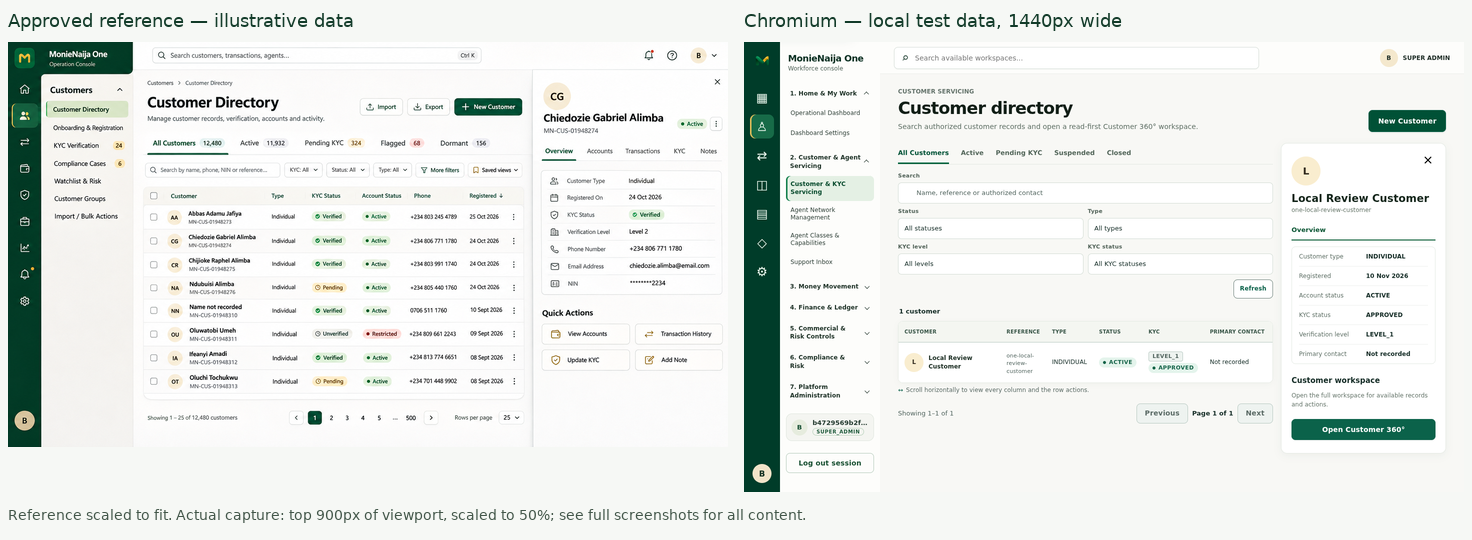
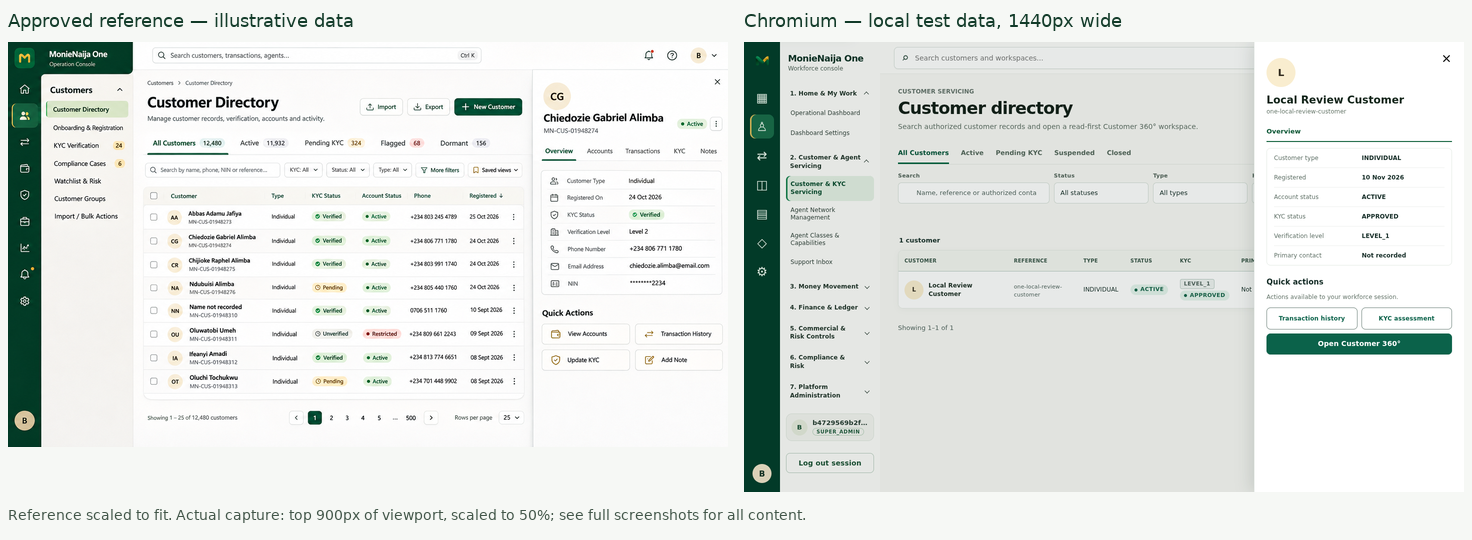
Update approved-reference comparison captures

Changed region(s): [[0.5938, 0.0889, 1.0, 0.9185], [0.625, 0.0889, 0.7188, 0.1185], [0.9375, 0.0889, 1.0, 0.1185]]

diff --git a/docs/admin-one/visual-comparison.html b/docs/admin-one/visual-comparison.html
@@ -3,10 +3,10 @@
 body{font:15px/1.55 system-ui,sans-serif;color:#192b20;margin:0;background:#f6f8f5}main{max-width:1500px;margin:auto;padding:28px}h1,h2{color:#063d2a}section{margin:32px 0}p{max-width:95ch}a{color:#005e3d}.comparison{display:grid;grid-template-columns:1fr 1fr;gap:16px}.panel{min-width:0;background:white;border:1px solid #d9e4db;border-radius:8px;padding:12px}.panel h3{margin:0 0 10px;font-size:14px}.frame{height:460px;overflow:auto;border:1px solid #e5e8e4}.frame img{display:block;width:100%;height:auto}.mobile img{width:375px;max-width:100%;height:auto}.mobile{height:520px}.note{padding:15px;background:#fff9e9;border-left:4px solid #bb9131} @media(max-width:700px){.comparison{grid-template-columns:1fr}}
 </style></head><body><main>
 <h1>MonieNaija One: Phase 1 visual comparison</h1>
-<p>Left: approved illustrative desktop reference. Right: actual headless Chromium capture of the implementation at 1440px, using a disposable local database. Images keep their aspect ratio; scroll inside a frame to inspect a full-page capture. Mobile captures use a 375px width; the full directory and preview images use an expanded-height viewport to ensure Chromium paints their scrollable table, while separate 375 × 900 viewport captures show the actual scrolled table. The supplied package contains no mobile references.</p>
+<p>Left: approved illustrative desktop reference. Right: actual headless Chromium capture of the implementation at 1440px, using a disposable local database. Images keep their aspect ratio; scroll inside a frame to inspect a full-page capture. Mobile captures use a 375px width; the full directory image uses an expanded-height viewport to ensure Chromium paints its scrollable table, while separate 375 × 900 viewport captures show the actual scrolled table. The supplied package contains no mobile references.</p>
 <p class="note"><strong>Review status:</strong> The references are the target, not evidence of functionality. The local data shown is synthetic, not production. Screens differ materially in some areas, as listed below. Owner approval is still required.</p>
-<section><h2>1. Sign-in</h2><div class="comparison"><div class="panel"><h3>Approved reference</h3><div class="frame"><img src="reference/01-login.png" alt="Approved sign-in reference"></div></div><div class="panel"><h3>Implementation — Chromium 1440px</h3><div class="frame"><img src="evidence/login-1440.png" alt="Actual local sign-in at 1440 pixels"></div></div></div><p>The two-panel composition, green/gold identity and form hierarchy follow the reference. The angled edge, map/wave art, password visibility, remember-me and password-reset controls are not reproduced; unsupported authentication functionality is not invented.</p><div class="panel"><h3>Implementation — Chromium 375px</h3><div class="frame mobile"><img src="evidence/login-375.png" alt="Actual local sign-in at 375 pixels"></div></div></section>
-<section><h2>2. Operations dashboard</h2><div class="comparison"><div class="panel"><h3>Approved reference</h3><div class="frame"><img src="reference/02-dashboard.png" alt="Approved operations dashboard reference"></div></div><div class="panel"><h3>Implementation — Chromium 1440px</h3><div class="frame"><img src="evidence/dashboard-1440.png" alt="Actual local operations dashboard at 1440 pixels"></div></div></div><p>The rail, secondary navigation, search, cards and transaction trend are structurally similar, but the widget arrangement and density differ. Search finds permitted workspaces, not customers/transactions. KPIs are real transaction summary metrics rather than the reference's illustrative customer/agent counts. There is no mock health score or combined action queue; available authorized reconciliation and audit widgets are shown instead. The empty chart reflects the disposable database.</p><div class="panel"><h3>Implementation — Chromium 375px</h3><div class="frame mobile"><img src="evidence/dashboard-375.png" alt="Actual local operations dashboard at 375 pixels"></div></div></section>
-<section><h2>3. Customer directory and preview</h2><div class="comparison"><div class="panel"><h3>Approved reference</h3><div class="frame"><img src="reference/03-customer-directory.png" alt="Approved customer directory reference"></div></div><div class="panel"><h3>Implementation — Chromium 1440px, preview open</h3><div class="frame"><img src="evidence/customer-preview-1440.png" alt="Actual local directory with customer preview at 1440 pixels"></div></div></div><p>The directory has real status filters, search, table, pagination and an overview preview. Filters wrap rather than fitting on one row; the preview uses returned directory fields and opens the existing Customer 360 workspace instead of presenting unverified quick actions or counts. No import/export, saved views, mock tabs, or bulk actions are presented as functional.</p><div class="comparison"><div class="panel"><h3>Implementation — Chromium 375px, directory</h3><div class="frame mobile"><img src="evidence/customers-375.png" alt="Actual local directory at 375 pixels"></div></div><div class="panel"><h3>Implementation — Chromium 375px, preview open</h3><div class="frame mobile"><img src="evidence/customer-preview-375.png" alt="Actual local directory preview at 375 pixels"></div></div></div><p>The mobile table now scrolls as a whole, so its first column no longer covers the row action. The complete mobile directory images use an expanded-height 375px viewport to avoid Chromium omitting the off-screen overflow region. <a href="evidence/customer-preview-table-375.png">Actual 375 × 900 viewport before horizontal scrolling</a> and <a href="evidence/customer-preview-table-scrolled-375.png">after scrolling to the action</a> are available for inspection.</p></section>
+<section><h2>1. Sign-in</h2><div class="comparison"><div class="panel"><h3>Approved reference</h3><div class="frame"><img src="reference/01-login.png" alt="Approved sign-in reference"></div></div><div class="panel"><h3>Implementation — Chromium 1440px</h3><div class="frame"><img src="evidence/login-1440.png" alt="Actual local sign-in at 1440 pixels"></div></div></div><p>The two-panel composition, green/gold identity and form hierarchy follow the reference. The angled edge, decorative map/waves and password reveal have been added. Remember-me and password reset remain unavailable pending supported authentication policy and backend flows.</p><div class="panel"><h3>Implementation — Chromium 375px</h3><div class="frame mobile"><img src="evidence/login-375.png" alt="Actual local sign-in at 375 pixels"></div></div></section>
+<section><h2>2. Operations dashboard</h2><div class="comparison"><div class="panel"><h3>Approved reference</h3><div class="frame"><img src="reference/02-dashboard.png" alt="Approved operations dashboard reference"></div></div><div class="panel"><h3>Implementation — Chromium 1440px</h3><div class="frame"><img src="evidence/dashboard-1440.png" alt="Actual local operations dashboard at 1440 pixels"></div></div></div><p>The rail, secondary navigation, search, cards and transaction trend are structurally similar, but the widget arrangement and density differ. Search finds authorized customers and permitted workspaces, but not agents, transactions or tickets. KPIs use authorized transaction, agent and customer endpoints rather than the illustrative reference values. The action panel uses available KYC and support data; combined action and flagged transaction counts need backend support. Available reconciliation and audit widgets replace the illustrative health score and activity. The empty chart reflects the disposable database.</p><div class="panel"><h3>Implementation — Chromium 375px</h3><div class="frame mobile"><img src="evidence/dashboard-375.png" alt="Actual local operations dashboard at 375 pixels"></div></div></section>
+<section><h2>3. Customer directory and preview</h2><div class="comparison"><div class="panel"><h3>Approved reference</h3><div class="frame"><img src="reference/03-customer-directory.png" alt="Approved customer directory reference"></div></div><div class="panel"><h3>Implementation — Chromium 1440px, preview open</h3><div class="frame"><img src="evidence/customer-preview-1440.png" alt="Actual local directory with customer preview at 1440 pixels"></div></div></div><p>The directory has real status filters, search, table, pagination and a modal overview drawer. Filters wrap rather than fitting on one row; the drawer uses returned directory fields and offers authorized customer-context actions plus the existing Customer 360 workspace. No import/export, saved views, mock tabs, or bulk actions are presented as functional.</p><div class="comparison"><div class="panel"><h3>Implementation — Chromium 375px, directory</h3><div class="frame mobile"><img src="evidence/customers-375.png" alt="Actual local directory at 375 pixels"></div></div><div class="panel"><h3>Implementation — Chromium 375px, preview open</h3><div class="frame mobile"><img src="evidence/customer-preview-375.png" alt="Actual local directory preview at 375 pixels"></div></div></div><p>The mobile table now scrolls as a whole, so its first column no longer covers the row action. The complete mobile directory image uses an expanded-height 375px viewport to avoid Chromium omitting the off-screen overflow region. The mobile drawer image is a 375 × 900 viewport. <a href="evidence/customer-preview-table-375.png">Actual 375 × 900 viewport before horizontal scrolling</a> and <a href="evidence/customer-preview-table-scrolled-375.png">after scrolling to the action</a> are available for inspection.</p></section>
 <p>See <a href="README.md">evidence notes</a> and <a href="evidence/manifest.json">capture manifest</a> for environment, tested workflows, and limitations. Open any image directly for its original resolution.</p>
 </main></body></html>

diff --git a/docs/admin-one/README.md b/docs/admin-one/README.md
@@ -1,36 +1,25 @@
-# MonieNaija One Phase 1 — review evidence
+# MonieNaija One — Phase 1 review
 
-**Owner visual approval is pending.** [Side-by-side visual comparison](visual-comparison.html). The exact reference files from the supplied package are in `reference/` (Drive ZIP MD5 `3210a348349c72d735c0349c2da466bf`). They contain illustrative data, not actual records.
+The owner-approved source images are in [`reference/`](reference/) (supplied ZIP MD5 `3210a348349c72d735c0349c2da466bf`). The revised frontend is commit **`74053064c3f97d226d68fe7f90de47abe259a743`**, on `arena/44f00580-monienaija`. Screenshots and comparisons are recorded in a subsequent evidence commit. This is not owner approval.
 
-The original implementation is commit `f8423fb0fb32a94ce5c8b323c5d9f799ecea3fef`; the targeted mobile table fix is `9c9a605499b08c4627428f13cb9347c2125d5cb7`, which is the source used for the latest captures. Screenshots are added in a subsequent evidence commit. The branch is `arena/44f00580-monienaija` (the session fixes the branch name; a separate branch could not be created). Revert the implementation and evidence commits to reverse this work.
+## Rendered images
 
-## Captures
+| Screen | 1440px | 375px | Original reference vs desktop capture |
+|---|---|---|---|
+| Login | [desktop](evidence/login-1440.png) | [mobile](evidence/login-375.png) | [comparison](evidence/comparisons/login-side-by-side.png) |
+| Dashboard | [desktop](evidence/dashboard-1440.png) | [mobile](evidence/dashboard-375.png) | [comparison](evidence/comparisons/dashboard-side-by-side.png) |
+| Directory | [directory](evidence/customers-1440.png), [drawer](evidence/customer-preview-1440.png) | [directory](evidence/customers-375.png), [drawer](evidence/customer-preview-375.png) | [comparison](evidence/comparisons/directory-side-by-side.png) |
 
-Headless Chromium, Vite UI, actual Nest AppModule and a fresh, **disposable migrated PostgreSQL** database; a local workforce seed and one explicitly synthetic customer were inserted only in that disposable database. No backend responses were mocked. The browser proxy allowed GET and the local login POST only; other browser mutations were blocked. Outbound Node networking was guarded, notification and cash-to-cash expiry workers were disabled. Servers bound to loopback and were stopped after capture. No preview, production service, user database, `.env`, deployed worker or real SMS was touched.
+The comparison PNGs show the entire original on the left and the top 900px of the desktop capture on the right, scaled to fit. The references are illustrative; their figures are not actual data.
 
-| Screen | Desktop 1440px | Mobile 375px |
-|---|---|---|
-| Sign-in | [login](evidence/login-1440.png) | [login](evidence/login-375.png) |
-| Dashboard | [dashboard](evidence/dashboard-1440.png) | [dashboard](evidence/dashboard-375.png) |
-| Directory | [directory](evidence/customers-1440.png), [preview](evidence/customer-preview-1440.png), [Customer 360](evidence/customer-360-1440.png) | [directory](evidence/customers-375.png), [preview](evidence/customer-preview-375.png), [Customer 360](evidence/customer-360-375.png) |
+Chromium captured Vite and the real Nest application against a disposable migrated PostgreSQL database with synthetic local workforce accounts and one synthetic customer. No API fixtures were used. The proxy allowed only GET and local-login POST; Node outbound networking was guarded, and notification/cash-to-cash workers were disabled. No real SMS, user database, production services or `.env` were changed. The dashboard screenshots and the mobile directory screenshot use expanded-height viewports at the stated widths to avoid Chromium omitting off-screen scrollable content. The mobile drawer image is an actual 375 × 900 viewport. Separate 375 × 900 captures show the directory table [before](evidence/customer-preview-table-375.png) and [after](evidence/customer-preview-table-scrolled-375.png) horizontal scrolling, **after the modal drawer is closed**. The [manifest](evidence/manifest.json) records the screenshot heights and verifies the authorized customer search at both widths.
 
-Most images are full-page Chromium captures using a 900px-high viewport. Chromium full-page capture omitted the off-screen scrollable table after the preview was opened, even when it was visible in an actual scrolled viewport. For the two complete 375px-wide directory images, the viewport height was temporarily expanded to fit the page so Chromium painted the entire table; the manifest records the actual height. They are not mobile-device or zoom simulations. Separate 375 × 900 viewport captures show the preview-open table [before horizontal scrolling](evidence/customer-preview-table-375.png) and [after scrolling to the action](evidence/customer-preview-table-scrolled-375.png). The narrow table no longer pins its first column, so it scrolls out of view rather than covering the action; the harness verified the action fits and opened Customer 360. Live testing on physical devices remains necessary. The manifest records the two tested document widths with no page-level horizontal overflow and no API 500 warnings; that is not a guarantee for every widget or role. Time shown is the test environment's clock, not production activity.
+## Connected behavior and remaining dependencies
 
-## Side-by-side images
+- **Search:** The top search performs real authorized customer name/reference/contact search through `GET /internal/customers` (contact matching remains server scope-gated) and searches permitted workspace names. Search results use the existing customer-ID navigation guard. It does not search agents, transactions or tickets. Those need authorized backend text-search contracts: the current agent list and support list expose filters but no text-search query; the transaction interface supports exact UUID lookup rather than a general search. The UI identifies the supported scope rather than claiming universal search.
+- **Action items:** The panel uses the guarded KYC status summary and `OPEN` support-ticket total where authorized, and links to eligible approvals without claiming an unavailable count. A unified count, flagged-transaction queue and a reliably scoped approvals-count endpoint remain backend dependencies. Available counts are not fabricated.
+- **Cards and activity:** Transaction totals use the authorized summary; active-agent and customer totals use guarded existing endpoints. A role without permission sees restricted states. The trend is actual completed-count data; recent transactions, reconciliation and audit entries use authorized existing widgets. There is no fabricated overall health score, mock trend, or percentage comparison.
+- **Directory drawer:** It is a modal side drawer with focus trapping, Escape dismissal and focus restoration. Its transaction and KYC quick actions appear only with the corresponding scope and route to the existing guarded customer-context workflows; Customer 360 remains the complete workspace. Reference-only sorting, import/export, saved views, notes and mock drawer tabs were not presented as functional. The 375px table scrolls as a whole so its action is not covered by a pinned column.
+- **Login:** The diagonal composition, decorative dotted map/waves and password reveal were added without changing authentication. The reference's remember-me and password-reset controls were not invented; they require an approved authentication policy and supported backend flow. A00 production sign-in remains policy-blocked.
 
-These show the entire approved reference at left and the top 900 pixels of the 1440px capture at right. Both are scaled for comparison; full screenshots are linked above.
-
-- [Login comparison](evidence/comparisons/login-side-by-side.png)
-- [Dashboard comparison](evidence/comparisons/dashboard-side-by-side.png)
-- [Customer directory comparison](evidence/comparisons/directory-side-by-side.png)
-
-## Evidence and limitations
-
-- Browser harness successfully signed in as a seeded local SUPER_ADMIN at both widths, navigated to the dashboard and directory, opened a synthetic customer's preview and entered the existing Customer 360 workspace (on mobile via the horizontally scrolled row action). This does not establish production authentication, other roles, writes, registration, or all customer actions. No browser mutations beyond local sign-in were allowed.
-- Admin Web TypeScript check and production Vite build passed; the build reported a large-chunk warning. All **80 suites / 804 tests** passed. Additional tests cover quick filters using the existing customer endpoint, preview-to-360 navigation, permission-limited workspace search and no write in these interactions. Existing tests cover authentication and role/route guards; tests are not proof of visual acceptance or real environment operation.
-- Top search is explicitly scoped to visible workspaces, not cross-entity/global search. The dashboard uses only resolved authorized widget data, including real transaction summary/trend, reconciliation and audit data where authorized. It does **not** implement the reference's unified action queue, invented aggregate health score, customer/agent KPIs or mock activity; widget availability and order vary by role. The four new transaction cards make an additional authorized summary request. Pending and completed counts are not equivalent to the reference's illustrative KPIs.
-- Customer status buttons use existing directory query filters. The preview exposes only returned authorized fields and preserves the existing Customer 360 actions; sorting, mock drawer tabs, bulk actions, import/export and saved views shown in the reference are not implemented. Pagination retains the existing API behavior. The desktop detail area is inline and the mobile preview stacks above the directory rather than acting as a modal drawer.
-- The login intentionally does not add invented password reset, remember-me, or production authentication policy. Decorative details and geometry differ from the reference. Existing real authentication flows and guards remain in place; production A00 sign-in policy remains blocked.
-- Existing screen-reader testing and real browser zoom testing were **not** performed. Mobile width is not a substitute for zoom or screen-reader testing. No user/owner visual acceptance is asserted.
-
-Stop here for owner visual approval before expanding the scope. No PR, merge, deployment, real SMS or deployed workers were initiated.
+The 81 Admin Web suites / 811 tests, TypeScript check and Vite build passed (the build reports a large-chunk warning). Chromium verified local login, authorized customer global search, directory navigation, drawer opening, horizontal scroll/action visibility and Customer 360 entry at both widths. It did not verify production login, writes, all roles, real devices, zoom or screen readers. No PR, merge or deployment was made.
